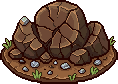
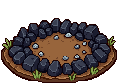
deploy lun 21/09/2026 14:52:18,94

diff --git a/public/game/boot.js b/public/game/boot.js
@@ -63,7 +63,7 @@ class BootScene extends Phaser.Scene {
     // v7: restos correctos sobre su parche de tierra (los v6 venían de una copia vieja)
     ["node_stone_mined","node_bronze_mined","node_gold_mined","node_diamond_mined","node_netherite_mined"]
       .forEach(k => L.push([k, P + k + ".png?v=7"]));
-    L.push(["node_iron_mined", P + "node_iron_mined.png?v=2"]);   // hierro (detalles213): derivado del bronce recoloreado
+    L.push(["node_iron_mined", P + "node_iron_mined.png?v=3"]);   // hierro: veta fría, diferenciada de piedra
     L.push(["dummy", P + "dummy.png"]);   // muñeco de práctica de espada
     L.push(["dummy_broken", P + "dummy_broken.png"]);   // dummy desgastado con cortes: se muestra durante el cooldown
     L.push(["cofre", P + "cofre.png"]);   // cofre depósito
@@ -102,7 +102,7 @@ class BootScene extends Phaser.Scene {
     // v3: nodos plantados en la tierra + estados dañados (intermedio del cooldown)
     ["node_stone","node_bronze","node_gold","node_diamond","node_netherite"]
       .forEach(k => { L.push([k, P + k + ".png?v=3"]); L.push([k + "_half", P + k + "_half.png"]); });
-    L.push(["node_iron", P + "node_iron.png?v=2"]); L.push(["node_iron_half", P + "node_iron_half.png?v=2"]);
+    L.push(["node_iron", P + "node_iron.png?v=3"]); L.push(["node_iron_half", P + "node_iron_half.png?v=3"]);
     // versionados: el arte cambió y el caché de 1 día serviría el viejo
     L.push(["plot", P + "plot.png?v=4"]);   // tierra suelta que combina con los montículos
     L.push(["plot_blocked", P + "plot_blocked.png?v=3"]);   // sin trabajar: ramas, piedras y yuyos
@@ -145,8 +145,8 @@ class BootScene extends Phaser.Scene {
   preload() {
     // ATLAS: todos los sprites del mundo en 2 archivos (mucho más liviano para el server free).
     // Si el atlas no llega, ensureAll() baja los archivos sueltos como respaldo.
-    this.load.image("__atlas", "assets/atlas.png?v=51");
-    this.load.json("__atlasmap", "assets/atlas.json?v=51");
+    this.load.image("__atlas", "assets/atlas.png?v=52");
+    this.load.json("__atlasmap", "assets/atlas.json?v=52");
     // 2/9: la isla viaja en la PRIMERA pasada (es la única imagen que no cabe en el atlas:
     // 1190x854). Antes quedaba para los reintentos y era ella sola la que disparaba una
     // segunda vuelta de descarga en cada carga del juego.

diff --git a/public/index.html b/public/index.html
@@ -1923,7 +1923,7 @@
     // 15/8: VERSIÓN DE BUILD — rompe la caché del navegador en cada deploy (sin esto, el
     // jugador seguía corriendo el state.js viejo aunque el servidor tuviera el nuevo).
     // deploy.bat la actualiza sola (busca GF_BUILD y pone la fecha/hora del deploy).
-    const GF_BUILD = "20260921-144501";
+    const GF_BUILD = "20260921-145218";
     const files = ["game/config.js","game/nav.js","game/audio.js","game/state.js","game/save.js","game/ui.js","game/boot.js",
                    "game/farm.js","game/forest.js","game/plaza.js","game/main.js","game/update.js"];
     /* 24/8 — SE BAJAN TODOS A LA VEZ, SE EJECUTAN EN FILA (dirección: « sigue tardando en

diff --git a/TODO.md b/TODO.md
@@ -290,7 +290,7 @@ Están desarrolladas en el GDD §15.0, con sus números medidos. Aquí solo el t
 
 - [x] El **Mercado** quedó chico al lado de los edificios nuevos: escala visual a 2,1 celdas (88,2 px), sin cambiar asset ni sus dos celdas.
 - [ ] **Árboles, piedras y parcelas**: siguen siendo el set viejo con el color calmado.
-- [ ] **Piedra vs hierro** se parecen — piden siluetas distintas.
+- [x] **Piedra vs hierro**: veta de hierro fría, oscura y con estados propios; piedra queda cálida y redondeada.
 - [x] **Animaciones de ataque propias por arma**: espada y arco conservan las suyas; hacha y mazo suman ocho frames propios cada una.
 
 ## ⚫ Ofrecido y sin pedir
